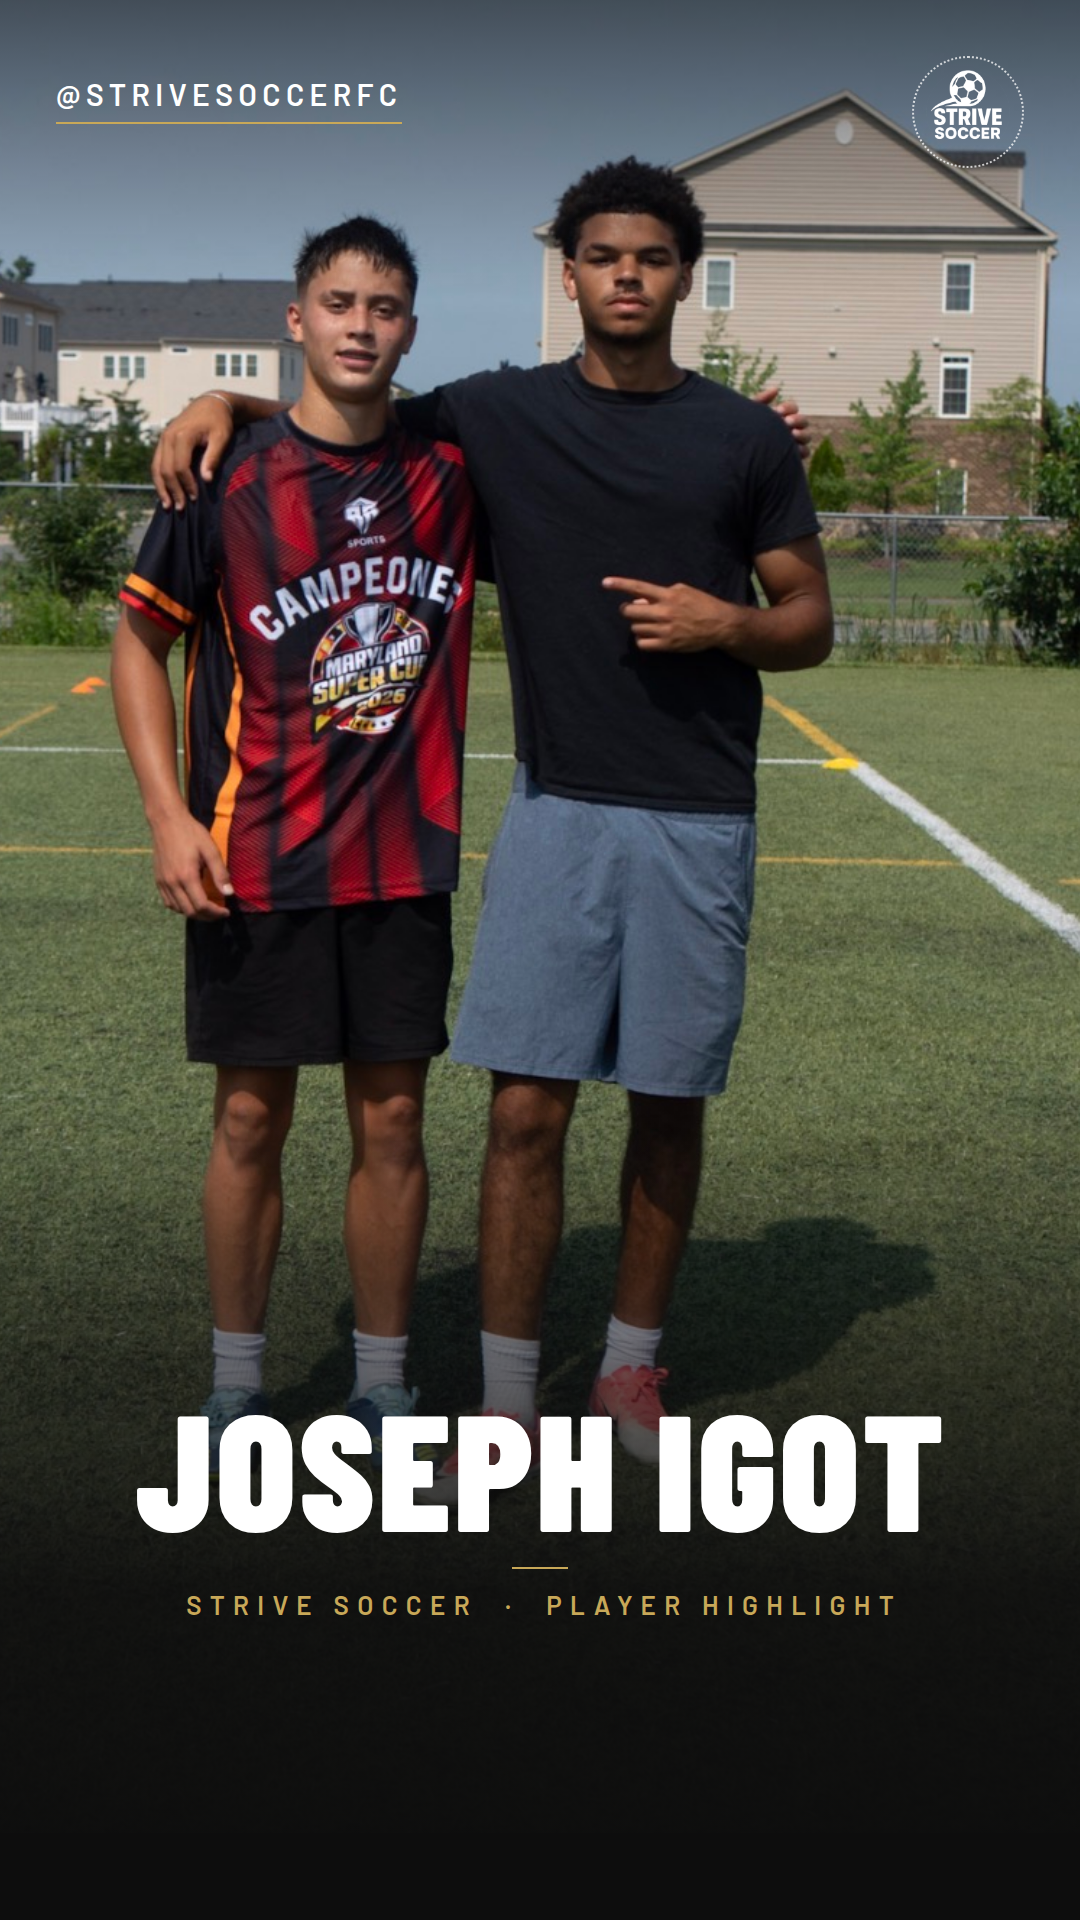
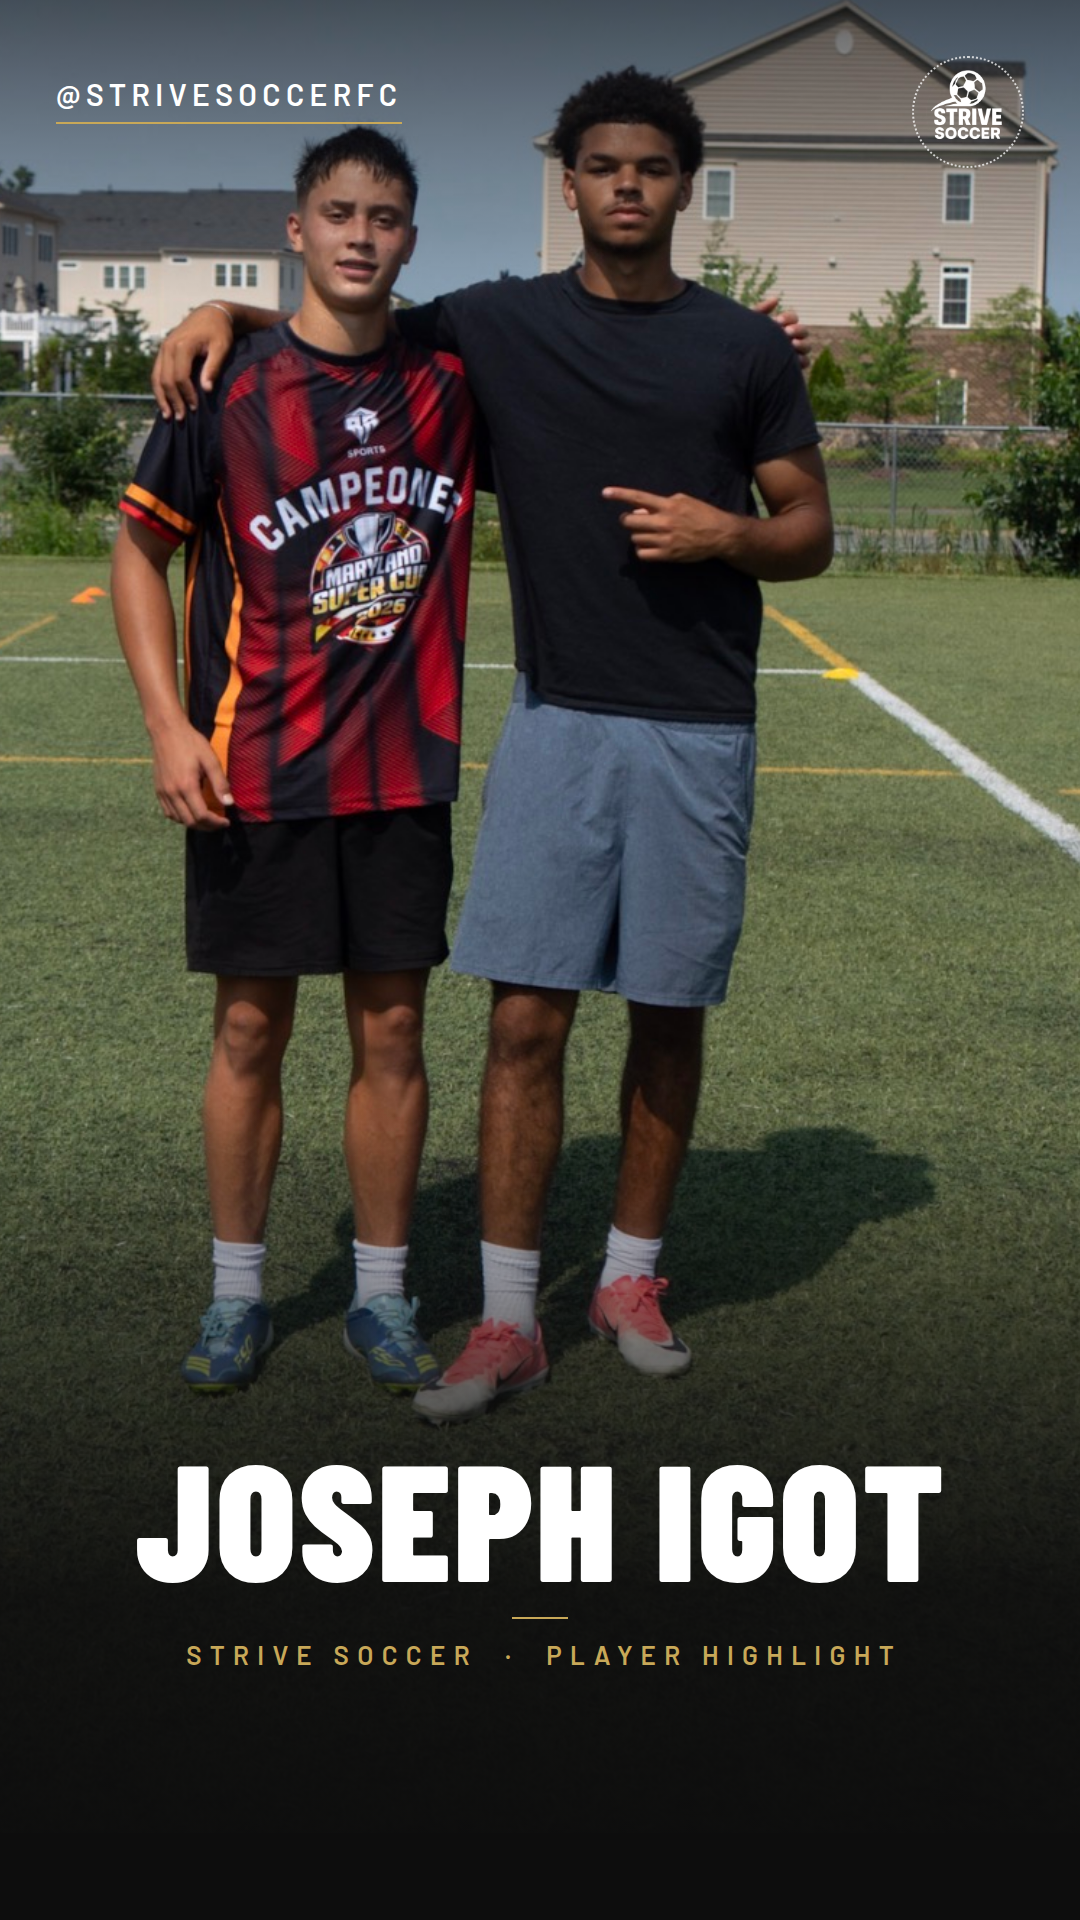
Joseph Igot cover: top edge at the head, boots fully visible
Claude-Session: https://claude.ai/code/session_011JsCTTjCbUkHbTuWTKQSXJ

diff --git a/marketing/highlights/joseph-igot/cover.html b/marketing/highlights/joseph-igot/cover.html
@@ -5,7 +5,7 @@
 *{margin:0;padding:0;box-sizing:border-box}
 html,body{width:1080px;height:1920px;background:#0d0d0d;overflow:hidden}
 .frame{position:relative;width:1080px;height:1920px;background:#0d0d0d;overflow:hidden}
-.frame>img{position:absolute;left:-160px;top:-445px;width:1400px;height:auto;display:block}
+.frame>img{position:absolute;left:-160px;top:-535px;width:1400px;height:auto;display:block}
 .top{position:absolute;left:0;right:0;top:0;height:300px;
   background:linear-gradient(to bottom,rgba(13,13,13,.6) 0%,rgba(13,13,13,0) 100%)}
 .shade{position:absolute;left:0;right:0;bottom:0;height:820px;
@@ -15,7 +15,7 @@ html,body{width:1080px;height:1920px;background:#0d0d0d;overflow:hidden}
 .ring{position:absolute;right:56px;top:56px;width:112px;height:112px;border-radius:50%;
   border:2px dotted rgba(255,255,255,.75);display:flex;align-items:center;justify-content:center}
 .ring img{width:84px;height:84px;object-fit:contain}
-.block{position:absolute;left:0;right:0;bottom:300px;text-align:center}
+.block{position:absolute;left:0;right:0;bottom:250px;text-align:center}
 .rule{width:56px;height:2px;background:#c8a858;margin:26px auto 20px}
 .eyebrow{font-family:'Barlow';font-weight:600;font-size:26px;letter-spacing:.32em;color:#c8a858;
   text-transform:uppercase;padding-left:.32em}
